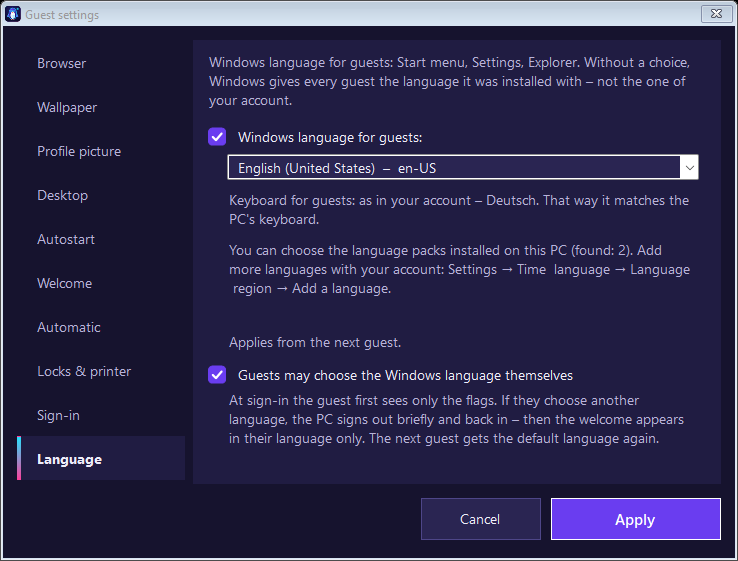
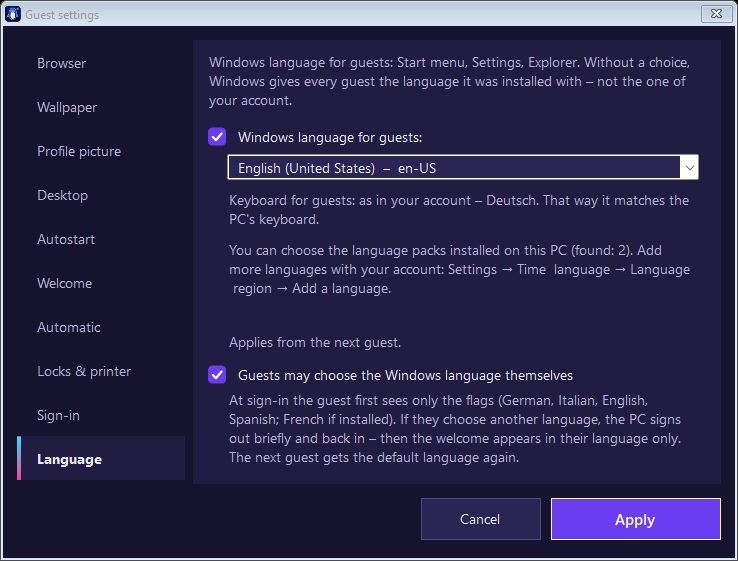
FreshGuest 1.26: French as fifth flag when its language pack is installed
Guest texts in French, own fields fall back to English; Spanish confirm text added;
flags shrink on narrow screens. Settings stay in four languages.

Changed region(s): [[0.3117, 0.697, 0.935, 0.8485]]

diff --git a/anleitung/vorlage.html b/anleitung/vorlage.html
@@ -246,7 +246,7 @@ reg unload HKLM\FG</pre></div>
   Hast du z. B. einen PC mit deutschem Windows auf Englisch umgestellt, sehen Gäste trotzdem Deutsch. Hier wählst du die <b>Windows-Sprache für Gäste</b>
   (Startmenü, Einstellungen, Explorer). Zur Auswahl stehen die Sprachpakete, die auf dem PC installiert sind. Die Tastatur bleibt wie bei deinem Konto,
   damit sie zur echten Tastatur am PC passt. Gilt ab dem nächsten Gast. Häkchen weg + Übernehmen = wieder Windows-Vorgabe.</p>
-  <p><b>Gäste dürfen die Windows-Sprache selbst wählen:</b> Beim Anmelden sieht der Gast zuerst nur die Flaggen – Deutsch, Italienisch, Englisch und Spanisch, soweit das Sprachpaket installiert ist.
+  <p><b>Gäste dürfen die Windows-Sprache selbst wählen:</b> Beim Anmelden sieht der Gast zuerst nur die Flaggen – Deutsch, Italienisch, Englisch und Spanisch, soweit das Sprachpaket installiert ist. Ist auch das französische Sprachpaket installiert, kommt Französisch als fünfte Flagge dazu: Die festen Texte erscheinen dann auf Französisch, deine eigenen Texte (Check-out, Kontakt …) in der englischen Fassung.
   Tippt er auf seine Sprache, fragt FreshGuest in dieser Sprache nach, meldet den PC kurz ab und gleich wieder an (etwa eine Minute). Danach kommt das Willkommensfenster <b>nur in seiner Sprache</b>, groß und übersichtlich;
   mit „Andere Sprache“ kann er noch einmal wechseln. Wählt er die Sprache, die schon eingestellt ist, kommt das Willkommen sofort. Der nächste Gast bekommt wieder deine Standardsprache.
   Für jede Sprache muss das Windows-Sprachpaket installiert sein (mit deinem Konto: Einstellungen → Zeit und Sprache → Sprache und Region → Sprache hinzufügen). Ohne Sprachwahl zeigt das Willkommensfenster alle vier Sprachen nebeneinander.</p>
@@ -434,7 +434,7 @@ reg unload HKLM\FG</pre></div>
   Se ad es. hai impostato in inglese un PC con Windows tedesco, gli ospiti vedono comunque il tedesco. Qui scegli la <b>lingua di Windows per gli ospiti</b>
   (menu Start, Impostazioni, Esplora file). Si possono scegliere i pacchetti di lingua installati sul PC. La tastiera resta come nel tuo account,
   così corrisponde alla tastiera fisica del PC. Vale dal prossimo ospite. Togliere la spunta + Applica = di nuovo l'impostazione predefinita di Windows.</p>
-  <p><b>Gli ospiti possono scegliere la lingua di Windows:</b> all'accesso l'ospite vede prima solo le bandiere – tedesco, italiano, inglese e spagnolo, se il pacchetto di lingua è installato.
+  <p><b>Gli ospiti possono scegliere la lingua di Windows:</b> all'accesso l'ospite vede prima solo le bandiere – tedesco, italiano, inglese e spagnolo, se il pacchetto di lingua è installato. Se è installato anche il pacchetto francese, il francese si aggiunge come quinta bandiera: i testi fissi appaiono in francese, i tuoi testi (check-out, contatto …) nella versione inglese.
   Se tocca la sua lingua, FreshGuest chiede conferma in quella lingua, disconnette il PC per un attimo e lo riconnette subito (circa un minuto). Poi appare la finestra di benvenuto <b>solo nella sua lingua</b>, grande e chiara;
   con «Altra lingua» può cambiare ancora. Se sceglie la lingua già impostata, il benvenuto appare subito. L'ospite successivo riceve di nuovo la tua lingua predefinita.
   Per ogni lingua deve essere installato il pacchetto di lingua di Windows (con il tuo account: Impostazioni → Data/ora e lingua → Lingua e area geografica → Aggiungi una lingua). Senza scelta della lingua la finestra di benvenuto mostra tutte e quattro le lingue affiancate.</p>
@@ -622,7 +622,7 @@ reg unload HKLM\FG</pre></div>
   If, for example, you switched a PC with German Windows to English, guests still see German. Here you choose the <b>Windows language for guests</b>
   (Start menu, Settings, Explorer). You can pick from the language packs installed on the PC. The keyboard stays as in your account,
   so it matches the PC's physical keyboard. Applies from the next guest. Untick + Apply = back to the Windows default.</p>
-  <p><b>Guests may choose the Windows language themselves:</b> at sign-in the guest first sees only the flags – German, Italian, English and Spanish, as far as the language pack is installed.
+  <p><b>Guests may choose the Windows language themselves:</b> at sign-in the guest first sees only the flags – German, Italian, English and Spanish, as far as the language pack is installed. If the French language pack is installed too, French is added as a fifth flag: the fixed texts appear in French, your own texts (check-out, contact …) in their English version.
   When they tap their language, FreshGuest asks for confirmation in that language, signs the PC out briefly and straight back in (about a minute). Then the welcome window appears <b>in their language only</b>, large and clear;
   “Other language” lets them switch again. If they pick the language that is already set, the welcome appears right away. The next guest gets your default language again.
   Each language needs its Windows language pack (with your account: Settings → Time &amp; language → Language &amp; region → Add a language). Without language choice the welcome window shows all four languages side by side.</p>

diff --git a/src/Sprachwahl.cs b/src/Sprachwahl.cs
@@ -70,9 +70,9 @@ namespace GaesteSchutz
                          "✔ Guests can choose the Windows language themselves (") + count + L.T(" Sprachen).", " lingue).", " languages).")
                    : L.T("Sprachwahl für Gäste aus.", "Scelta della lingua per gli ospiti disattivata.", "Language choice for guests off."));
             if (on && count < 2)
-                log(L.T("   Hinweis: Von Deutsch, Italienisch, Englisch und Spanisch ist auf diesem PC höchstens ein Sprachpaket installiert – es gibt noch nichts zu wählen.",
-                        "   Nota: di tedesco, italiano, inglese e spagnolo su questo PC è installato al massimo un pacchetto di lingua – non c'è ancora nulla da scegliere.",
-                        "   Note: of German, Italian, English and Spanish at most one language pack is installed on this PC – there is nothing to choose yet."));
+                log(L.T("   Hinweis: Von Deutsch, Italienisch, Englisch, Spanisch und Französisch ist auf diesem PC höchstens ein Sprachpaket installiert – es gibt noch nichts zu wählen.",
+                        "   Nota: di tedesco, italiano, inglese, spagnolo e francese su questo PC è installato al massimo un pacchetto di lingua – non c'è ancora nulla da scegliere.",
+                        "   Note: of German, Italian, English, Spanish and French at most one language pack is installed on this PC – there is nothing to choose yet."));
         }
     }
 
@@ -236,6 +236,10 @@ namespace GaesteSchutz
                             "Al momento non è stato possibile cambiare la lingua. Riprova più tardi." } },
             { "en", new[] { "Windows will be switched to English. The PC signs out briefly and signs straight back in (about a minute). Everything you have done so far will be deleted.\n\nSwitch now?",
                             "The language could not be switched right now. Please try again later." } },
+            { "es", new[] { "Windows se cambiará a español. El PC cierra la sesión un momento y la vuelve a abrir enseguida (aproximadamente un minuto). Todo lo que hayas hecho hasta ahora se borrará.\n\n¿Cambiar ahora?",
+                            "No se ha podido cambiar el idioma en este momento. Inténtalo de nuevo más tarde." } },
+            { "fr", new[] { "Windows va passer en français. Le PC se déconnecte un instant et se reconnecte aussitôt (environ une minute). Tout ce que tu as fait jusqu'ici sera effacé.\n\nChanger maintenant ?",
+                            "La langue n'a pas pu être changée pour le moment. Réessaie plus tard." } },
         };
 
         // Kurzer Name auf dem Knopf: „Deutsch“, „Italiano“ … (bei zwei Varianten derselben Sprache mit Land)
@@ -255,16 +259,17 @@ namespace GaesteSchutz
         // Gibt es etwas zu wählen? (mindestens zwei Sprachpakete)
         public static bool Available() { return ChoiceLanguages().Count >= 2; }
 
-        // Zur Wahl für Gäste: nur Deutsch, Italienisch, Englisch und Spanisch (sofern das Sprachpaket installiert ist)
-        public static readonly string[] Allowed = { "de", "it", "en", "es" };
+        // Zur Wahl für Gäste: Deutsch, Italienisch, Englisch, Spanisch und Französisch (sofern das Sprachpaket installiert ist)
+        public static readonly string[] Allowed = { "de", "it", "en", "es", "fr" };
         public static List<string> ChoiceLanguages()
         {
+            if (Program.Demo) return new List<string> { "de-DE", "it-IT", "en-GB", "es-ES", "fr-FR" };   // Vorschau/Bilder: alle Flaggen
             return GuestExtras.InstalledUiLanguages()
                 .Where(t => Allowed.Contains(t.Split('-')[0].ToLowerInvariant()))
                 .OrderBy(t => Array.IndexOf(Allowed, t.Split('-')[0].ToLowerInvariant())).ToList();
         }
 
-        // "it-IT" -> "it" (nur die vier Gast-Sprachen, sonst null)
+        // "it-IT" -> "it" (nur die Gast-Sprachen aus Allowed, sonst null)
         public static string LangOf(string tag)
         {
             if (string.IsNullOrEmpty(tag)) return null;
@@ -563,7 +568,10 @@ namespace GaesteSchutz
         {
             List<string> langs = GuestSwitch.ChoiceLanguages();
             if (langs.Count == 0) langs.Add(CultureInfo.CurrentUICulture.Name);
-            const int tile = 200, gap = 16, pad = 28;
+            const int gap = 16, pad = 28;
+            // Flaggen so groß wie möglich, aber alle in einer Reihe auf dem Bildschirm (fünf mit Französisch)
+            int screen = Screen.PrimaryScreen.WorkingArea.Width;
+            int tile = Math.Max(140, Math.Min(200, (screen - 40 - pad * 2 - (langs.Count - 1) * gap) / langs.Count));
             int w = Math.Max(640, pad * 2 + langs.Count * tile + (langs.Count - 1) * gap);
             Ui.Style(this, w, 300);
             MinimizeBox = false;
@@ -577,6 +585,8 @@ namespace GaesteSchutz
             var shown = langs.Select(t => GuestTexts.Find(GuestSwitch.LangOf(t) ?? "en") ?? GuestTexts.All[0]).ToList();
             var title = Ui.MakeLabel(string.Join("   ", shown.Select(l => l.Choose).Distinct().ToArray()), pad, y, w - 2 * pad, 40);
             title.Font = new Font("Segoe UI Semibold", 17f);
+            while (title.Font.Size > 11f && TextRenderer.MeasureText(title.Text, title.Font).Width > title.Width)
+                title.Font = new Font("Segoe UI Semibold", title.Font.Size - 1f);
             Controls.Add(title);
             y += 58;
 

diff --git a/src/Gast.cs b/src/Gast.cs
@@ -54,7 +54,13 @@ namespace GaesteSchutz
             value = (value ?? "").Trim();
             if (value.Length == 0) vals.Remove(field + "|" + slot); else vals[field + "|" + slot] = value;
         }
-        public string Get(string field, string slot) { string v = Raw(field, slot); return v.Length > 0 ? v : Raw(field, "de"); }
+        // Französisch (nur als Gast-Sprache, ohne eigene Felder): erst der englische, dann der deutsche Eintrag
+        public string Get(string field, string slot)
+        {
+            string v = Raw(field, slot);
+            if (v.Length == 0 && Array.IndexOf(Slots, slot) < 0) v = Raw(field, "en");
+            return v.Length > 0 ? v : Raw(field, "de");
+        }
 
         // Name in Registry/Speicher: W_Checkout (Deutsch), W_Checkout_it, W_Checkout_en, W_Checkout_4
         public static string Key(string field, string slot) { return "W_" + field + (slot == "de" ? "" : "_" + slot); }
@@ -525,7 +531,16 @@ namespace GaesteSchutz
                 IdleWarn = "El PC lleva un rato sin usarse. Se apagará en {0} segundos y se borrará todo." },
         };
 
-        public static GuestLang Find(string code) { return All.FirstOrDefault(l => l.Code == code); }
+        // Französisch: nur, wenn der Gast es über die Flaggen wählt (Sprachpaket installiert). Die Fenster mit allen
+        // Sprachen nebeneinander und die Einstellungen bleiben bei den vier Sprachen oben.
+        public static readonly GuestLang Fr =
+            new GuestLang { Code = "fr", Name = "Français", Welcome = "Bienvenue !", Note = "Attention", StillThere = "Toujours là ?", StillHere = "Je suis encore là", Contact = "Contact",
+                Reset = "Ce PC est réinitialisé après chaque client. À la déconnexion, à l'arrêt ou au redémarrage, tout est effacé : téléchargements, fichiers et connexions (Gmail, Netflix …). Enregistre d'abord les fichiers importants sur une clé USB ou imprime-les.",
+                Idle = "Si le PC n'est pas utilisé pendant {0} minutes, il s'éteint automatiquement.",
+                Restart = "Chaque jour à {0} le PC redémarre automatiquement.",
+                IdleWarn = "Le PC n'a pas été utilisé depuis un moment. Il s'éteint dans {0} secondes – et tout sera effacé." };
+
+        public static GuestLang Find(string code) { return All.FirstOrDefault(l => l.Code == code) ?? (code == "fr" ? Fr : null); }
         // (früher wählbar: eine vierte Sprache – jetzt sind es immer diese vier)
         public static IEnumerable<GuestLang> Extras { get { return Enumerable.Empty<GuestLang>(); } }
         public static bool IsExtra(string code) { return false; }
@@ -539,11 +554,12 @@ namespace GaesteSchutz
             { "it", new[] { "Scegli la lingua", "Altra lingua", "Wi-Fi", "Password" } },
             { "en", new[] { "Choose your language", "Other language", "Wi-Fi", "Password" } },
             { "es", new[] { "Elige tu idioma", "Otro idioma", "Wi-Fi", "Contraseña" } },
+            { "fr", new[] { "Choisis ta langue", "Autre langue", "Wi-Fi", "Mot de passe" } },
         };
 
         static GuestTexts()
         {
-            foreach (GuestLang l in All)
+            foreach (GuestLang l in All.Concat(new[] { Fr }))
             {
                 string[] m;
                 if (!More.TryGetValue(l.Code, out m)) m = More["en"];
@@ -551,7 +567,7 @@ namespace GaesteSchutz
             }
         }
 
-        // Nur diese eine Sprache (Code de/it/en/es) – oder alle, wenn code leer/unbekannt
+        // Nur diese eine Sprache (Code de/it/en/es/fr) – oder alle vier, wenn code leer/unbekannt
         public static List<GuestLang> Only(string code)
         {
             GuestLang one = string.IsNullOrEmpty(code) ? null : Find(code);

diff --git a/src/FreshGuest.cs b/src/FreshGuest.cs
@@ -2615,9 +2615,9 @@ namespace GaesteSchutz
             chkChoice = AddCheck(t, L.T("Gäste dürfen die Windows-Sprache selbst wählen", "Gli ospiti possono scegliere la lingua di Windows",
                 "Guests may choose the Windows language themselves"), 322, GuestExtras.ChoiceOn(store));
             Indent(AddInfo(t, L.T(
-                "Beim Anmelden sieht der Gast zuerst nur die Flaggen. Wählt er eine andere Sprache, meldet sich der PC kurz ab und wieder an – dann kommt das Willkommen nur in seiner Sprache. Der nächste Gast bekommt wieder die Standardsprache.",
-                "All'accesso l'ospite vede prima solo le bandiere. Se sceglie un'altra lingua, il PC si disconnette per un attimo e si riconnette – poi il benvenuto appare solo nella sua lingua. L'ospite successivo riceve di nuovo la lingua predefinita.",
-                "At sign-in the guest first sees only the flags. If they choose another language, the PC signs out briefly and back in – then the welcome appears in their language only. The next guest gets the default language again."),
+                "Beim Anmelden sieht der Gast zuerst nur die Flaggen (Deutsch, Italienisch, Englisch, Spanisch; Französisch, wenn installiert). Wählt er eine andere Sprache, meldet sich der PC kurz ab und wieder an – dann kommt das Willkommen nur in seiner Sprache. Der nächste Gast bekommt wieder die Standardsprache.",
+                "All'accesso l'ospite vede prima solo le bandiere (tedesco, italiano, inglese, spagnolo; francese, se installato). Se sceglie un'altra lingua, il PC si disconnette per un attimo e si riconnette – poi il benvenuto appare solo nella sua lingua. L'ospite successivo riceve di nuovo la lingua predefinita.",
+                "At sign-in the guest first sees only the flags (German, Italian, English, Spanish; French if installed). If they choose another language, the PC signs out briefly and back in – then the welcome appears in their language only. The next guest gets the default language again."),
                 350, 80), 32);
         }
 
@@ -3351,6 +3351,8 @@ namespace GaesteSchutz
                 Shot(new LanguageForm(false), Path.Combine(dir, "19-gast-sprachwahl" + sfx + ".png"));
                 Shot(new WelcomeForm(GuestExtras.WelcomeFromStore(st), false, code == "de" ? "it" : code == "it" ? "de" : "es"),
                     Path.Combine(dir, "20-gast-willkommen-eine-sprache" + sfx + ".png"));
+                if (code == "en")       // nur zur Kontrolle (nicht in der Anleitung): Französisch nach der Sprachwahl
+                    Shot(new WelcomeForm(GuestExtras.WelcomeFromStore(st), false, "fr"), Path.Combine(dir, "21-gast-willkommen-fr.png"));
 
                 if (code == "de")
                 {

diff --git a/ANLEITUNG.md b/ANLEITUNG.md
@@ -90,7 +90,7 @@ Am 09.11.2026 auf dem echten Gäste-PC (Windows 11 Pro, italienisch) mit **Versi
 **Auf dem Gäste-PC bestätigt (1.3):** Hintergrund für Gäste.
 **Lizenz (ab der Veröffentlichung):** GNU GPL v3.0 oder neuer (statt MIT + Commons Clause). Veränderte Fassungen dürfen nicht „FreshGuest“ heißen und nicht das Logo tragen.
 
-**Neu in 1.26:** Test von 1.25 am PC mit vier Sprachpaketen erfolgreich (Flaggen → Abmelden/Anmelden → Willkommen in einer Sprache). **Doppelte Browser-Symbole:** Die Symbole von Chrome/Edge auf dem öffentlichen Desktop (Ziel `chrome.exe`/`msedge.exe`) kommen nach `C:\ProgramData\GaestePC\Desktop-Sicherung`, das Admin-Konto bekommt eine Kopie auf seinen Desktop (Store `SymboleVerschoben`/`SymboleKopiert`); damit Edge-Updates das Symbol nicht neu anlegen: `HKLM\SOFTWARE\Policies\Microsoft\EdgeUpdate\CreateDesktopShortcutDefault=0` (nur wenn vorher nicht gesetzt, Store `EdgeUpdateSymbol`). Rückgängig beim Abschalten/Deinstallieren und im Rücksetz-Werkzeug. **Schnellerer Start der Gast-Fenster:** im Standardprofil `Explorer\Serialize` `StartupDelayInMSec=0` und `WaitForIdleState=0` (Autostart ohne Verzögerung), dazu `EnableFirstLogonAnimation=0` (HKLM Policies\System, nur wenn vorher nicht gesetzt) – Merker `SchnellStart`/`SchnellStartAnimation` in `HKLM\SOFTWARE\FreshGuest`. **Willkommen-Einstellungen:** statt der Liste „Texte in Sprache“ vier Flaggen-Reiter (`LangTab`) mit grünem ✔ für ausgefüllte Sprachen; Vorschau mit Sprachwahl nur in der gewählten Sprache. **Am Gäste-PC noch zu testen.**
+**Neu in 1.26:** Test von 1.25 am PC mit vier Sprachpaketen erfolgreich (Flaggen → Abmelden/Anmelden → Willkommen in einer Sprache). **Doppelte Browser-Symbole:** Die Symbole von Chrome/Edge auf dem öffentlichen Desktop (Ziel `chrome.exe`/`msedge.exe`) kommen nach `C:\ProgramData\GaestePC\Desktop-Sicherung`, das Admin-Konto bekommt eine Kopie auf seinen Desktop (Store `SymboleVerschoben`/`SymboleKopiert`); damit Edge-Updates das Symbol nicht neu anlegen: `HKLM\SOFTWARE\Policies\Microsoft\EdgeUpdate\CreateDesktopShortcutDefault=0` (nur wenn vorher nicht gesetzt, Store `EdgeUpdateSymbol`). Rückgängig beim Abschalten/Deinstallieren und im Rücksetz-Werkzeug. **Schnellerer Start der Gast-Fenster:** im Standardprofil `Explorer\Serialize` `StartupDelayInMSec=0` und `WaitForIdleState=0` (Autostart ohne Verzögerung), dazu `EnableFirstLogonAnimation=0` (HKLM Policies\System, nur wenn vorher nicht gesetzt) – Merker `SchnellStart`/`SchnellStartAnimation` in `HKLM\SOFTWARE\FreshGuest`. **Französisch als 5. Flagge:** `GuestSwitch.Allowed` enthält `fr` – erscheint nur, wenn das Sprachpaket installiert ist. Feste Gast-Texte auf Französisch (`GuestTexts.Fr`, nicht in `All`: Fenster mit allen Sprachen und Einstellungen bleiben bei vier), eigene Felder fallen für `fr` auf Englisch, dann Deutsch zurück. Rückfrage beim Umschalten jetzt auch auf Spanisch (fehlte) und Französisch. Flaggen werden bei schmalen Bildschirmen kleiner. **Willkommen-Einstellungen:** statt der Liste „Texte in Sprache“ vier Flaggen-Reiter (`LangTab`) mit grünem ✔ für ausgefüllte Sprachen; Vorschau mit Sprachwahl nur in der gewählten Sprache. **Am Gäste-PC noch zu testen.**
 
 **Neu in 1.25:** Willkommensfenster nach **Entwurf A**: WLAN-Zeile, darunter die vier Sprachen als Spalten nebeneinander (auf schmalen Bildschirmen 2 × 2), jede mit Flagge. **Mit Sprachwahl:** Ist Windows in der Standardsprache (`GastStandardSprache`, sonst Installationssprache), kommen zuerst nur die Flaggen (`LanguageForm`); andere Sprache → Abmelden/Anmelden → Willkommen bzw. Hinweis **nur in dieser Sprache** mit Taste „Andere Sprache“. Gleiche Sprache → Willkommen sofort. Am PC getestet (1.26).
 

diff --git a/README.md b/README.md
@@ -61,7 +61,7 @@ All settings apply to guests only – your own account stays as it is.
 - **Welcome window** – Wi-Fi name and password; check-out, contact, an extra field of your choice and your own text, each per language
 - **Automatic** – shut the PC down when a guest leaves it unused (after a 60-second “Still there?”), restart daily at a fixed time, show a notice that the PC is reset after every guest
 - **Locks & printer** – lock Control Panel / Settings, command prompt, registry editor, installing programs and running programs from Downloads; default printer for guests
-- **Language** – the Windows display language for guests, chosen from the language packs installed on the PC (otherwise guests get the language Windows was installed with); optionally guests first see only flag buttons (German, Italian, English, Spanish) – after picking one, the PC signs out briefly and back in, and the welcome window appears in that language only
+- **Language** – the Windows display language for guests, chosen from the language packs installed on the PC (otherwise guests get the language Windows was installed with); optionally guests first see only flag buttons (German, Italian, English, Spanish – plus French if its language pack is installed) – after picking one, the PC signs out briefly and back in, and the welcome window appears in that language only
 - **Sign-in** – “Guest” is selected automatically; optionally show **only** “Guest” and reach your own account with **Ctrl + Alt + F** on the sign-in screen
 
 | | |
